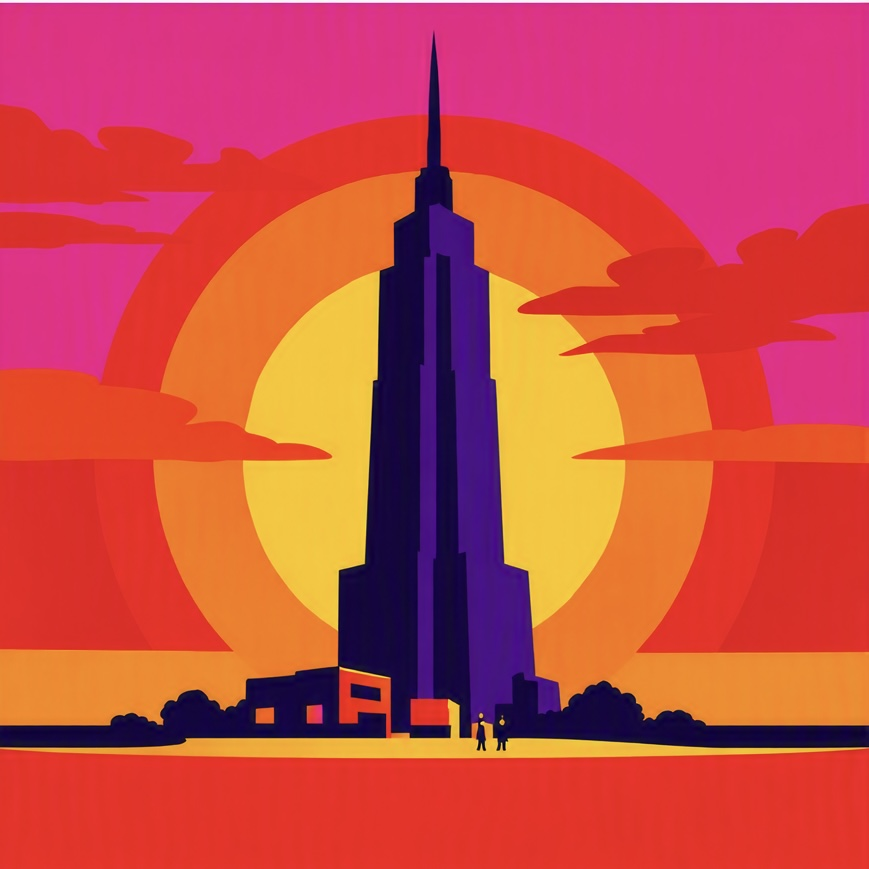
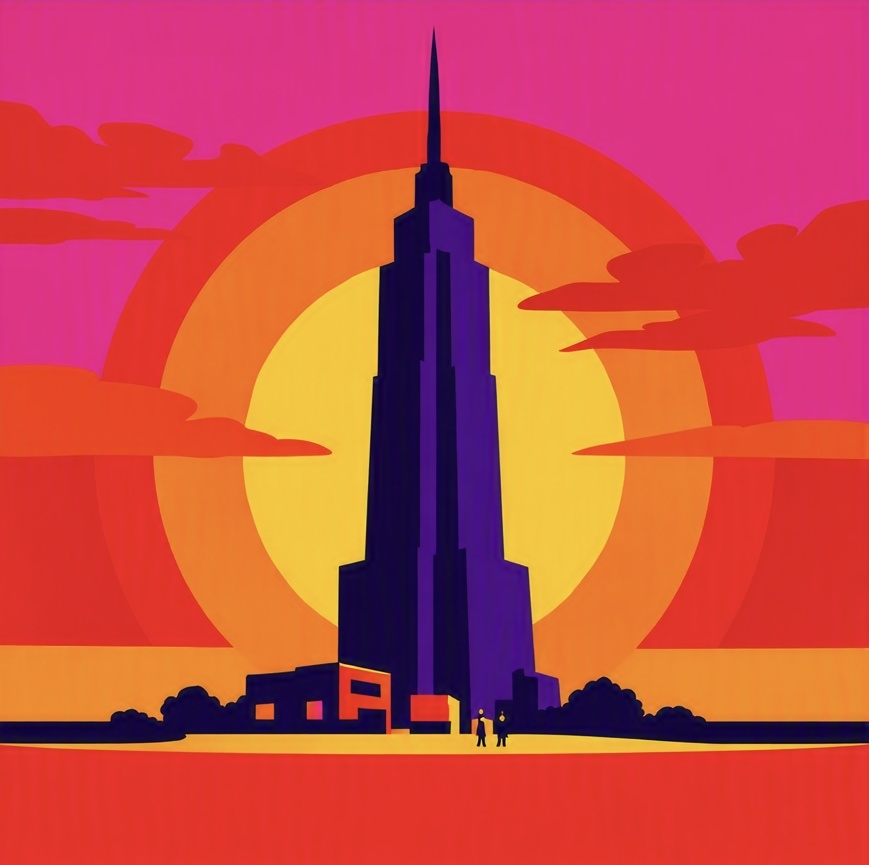
Add 9 archival artwork pieces from Oct 1993, update tagline and quote, fix hero image white edge

diff --git a/content/posts/untitled-i/index.md b/content/posts/untitled-i/index.md
@@ -1,0 +1,7 @@
+---
+title: "Untitled"
+date: 1993-10-01
+draft: false
+tags: ["artwork", "1993"]
+image: "image.jpg"
+---

diff --git a/content/posts/untitled-ii/index.md b/content/posts/untitled-ii/index.md
@@ -1,0 +1,7 @@
+---
+title: "Untitled"
+date: 1993-10-01
+draft: false
+tags: ["artwork", "1993"]
+image: "image.jpg"
+---

diff --git a/content/posts/untitled-iii/index.md b/content/posts/untitled-iii/index.md
@@ -1,0 +1,7 @@
+---
+title: "Untitled"
+date: 1993-10-01
+draft: false
+tags: ["artwork", "1993"]
+image: "image.jpg"
+---

diff --git a/content/posts/untitled-iv/index.md b/content/posts/untitled-iv/index.md
@@ -1,0 +1,7 @@
+---
+title: "Untitled"
+date: 1993-10-01
+draft: false
+tags: ["artwork", "1993"]
+image: "image.jpg"
+---

diff --git a/content/posts/untitled-ix/index.md b/content/posts/untitled-ix/index.md
@@ -1,0 +1,7 @@
+---
+title: "Untitled"
+date: 1993-10-01
+draft: false
+tags: ["artwork", "1993"]
+image: "image.jpg"
+---

diff --git a/content/posts/untitled-v/index.md b/content/posts/untitled-v/index.md
@@ -1,0 +1,7 @@
+---
+title: "Untitled"
+date: 1993-10-01
+draft: false
+tags: ["artwork", "1993"]
+image: "image.jpg"
+---

diff --git a/content/posts/untitled-vi/index.md b/content/posts/untitled-vi/index.md
@@ -1,0 +1,7 @@
+---
+title: "Untitled"
+date: 1993-10-01
+draft: false
+tags: ["artwork", "1993"]
+image: "image.jpg"
+---

diff --git a/content/posts/untitled-vii/index.md b/content/posts/untitled-vii/index.md
@@ -1,0 +1,7 @@
+---
+title: "Untitled"
+date: 1993-10-01
+draft: false
+tags: ["artwork", "1993"]
+image: "image.jpg"
+---

diff --git a/content/posts/untitled-viii/index.md b/content/posts/untitled-viii/index.md
@@ -1,0 +1,7 @@
+---
+title: "Untitled"
+date: 1993-10-01
+draft: false
+tags: ["artwork", "1993"]
+image: "image.jpg"
+---
